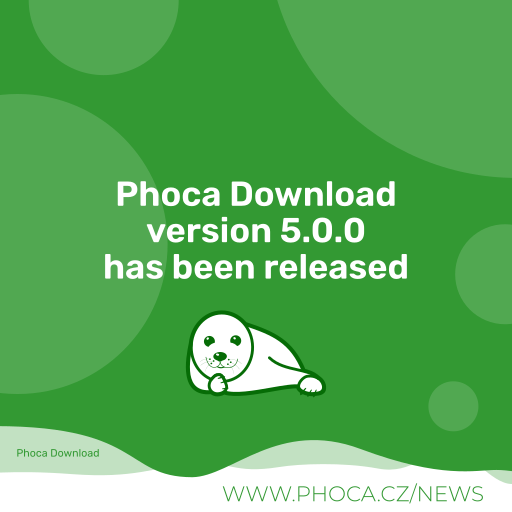
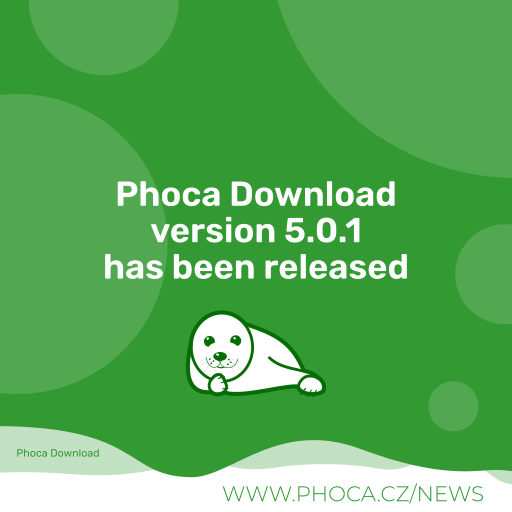
5.0.1

Changed region(s): [[0.2812, 0.4062, 0.7188, 0.5]]

diff --git a/admin/models/fields/phocahead.php b/admin/models/fields/phocahead.php
@@ -7,6 +7,8 @@
  * @license http://www.gnu.org/copyleft/gpl.html GNU/GPL
  */
 defined('JPATH_BASE') or die;
+
+use Joomla\CMS\Factory;
 use Joomla\CMS\Form\FormField;
 use Joomla\CMS\HTML\HTMLHelper;
 use Joomla\CMS\Language\Text;

diff --git a/README.MD b/README.MD
@@ -100,7 +100,7 @@ Phoca Download is download manager for Joomla! CMS. It includes component, modul
 
 ## Version (Joomla! 5.x)
 
-5.0.0
+5.0.1
 
 
 
